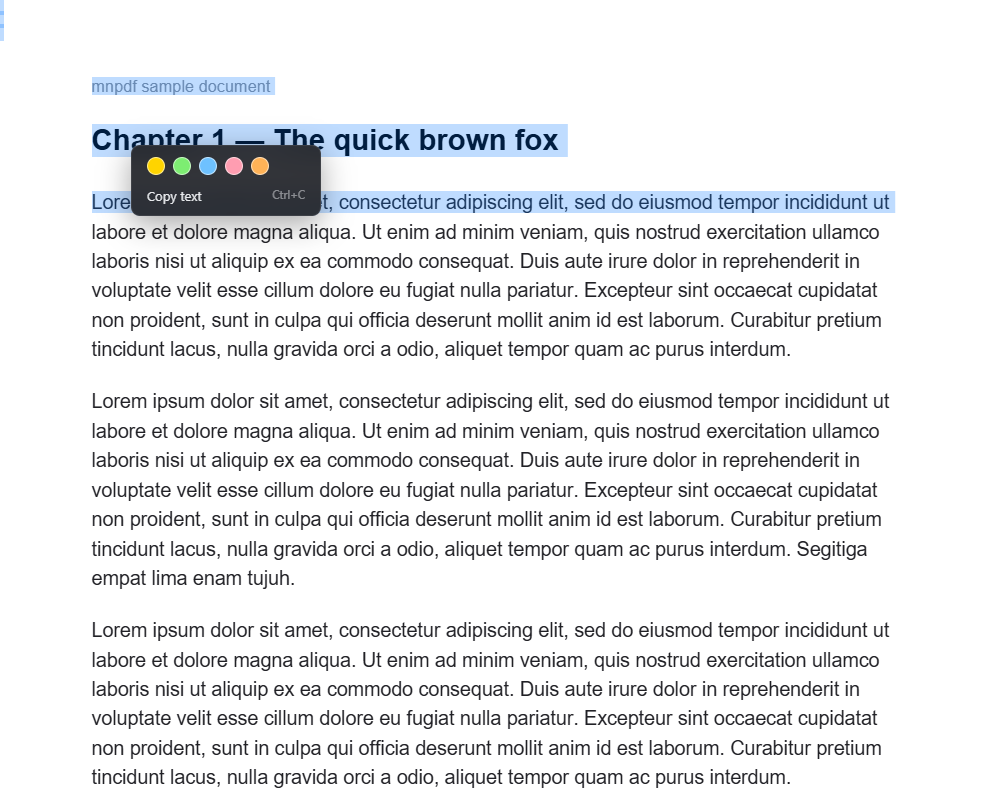
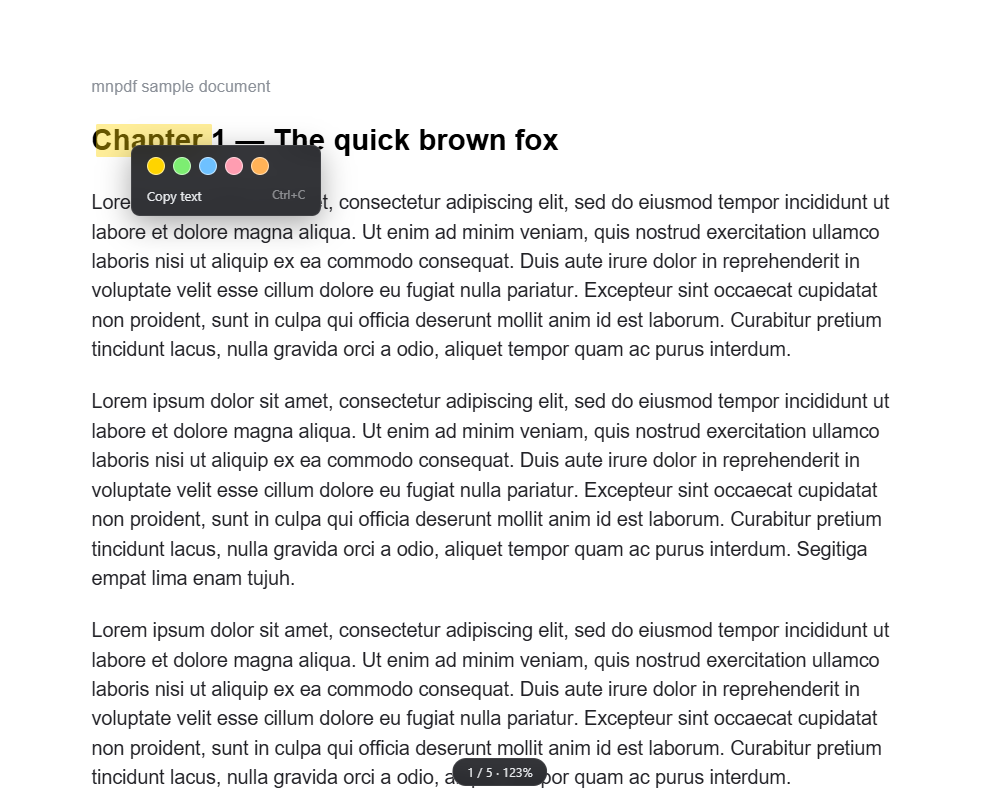
v0.6: glyph-trimmed band highlights (no margin bleed, short last lines respected), blank-space drags highlight crossed lines, native overshoot selection cleared on release with Ctrl+C fallback

diff --git a/src/annos.js b/src/annos.js
@@ -5,7 +5,6 @@
 // into the PDF), so nothing is printed on the page.
 import { S, pushOp, onDocChange, newHighlight, newPin } from './state.js';
 import { viewportFor, positionOverlays, setOverlayRenderer } from './viewer.js';
-import { pointNearRect, bandClipRect } from './selection.js';
 import { el } from './util.js';
 
 export const HL_COLORS = ['#ffd400', '#7ded72', '#6ec1ff', '#ff9db1', '#ffb257'];
@@ -69,22 +68,8 @@ function initDragBandTracking() {
       if (e.button !== 0) return;
       const tlEl = e.target.closest?.('.textLayer');
       if (!tlEl) return;
-      // drag-from-blank: a press that misses every glyph box must not start a
-      // selection at all (preventing mousedown's default blocks selection).
-      let onText = false;
-      for (const span of tlEl.querySelectorAll('span')) {
-        if (pointNearRect(e.clientX, e.clientY, span.getBoundingClientRect())) {
-          onText = true;
-          break;
-        }
-      }
-      if (!onText) {
-        e.preventDefault();
-        window.getSelection()?.removeAllRanges();
-        return;
-      }
-      // drag-to-blank clamp: endOfContent covers the layer while selecting so
-      // the browser keeps the endpoint on real text (see .textLayer.selecting)
+      // blank-space starts are fine: the highlight comes from the pointer band
+      // (glyph-trimmed), and endOfContent keeps the native endpoint on text
       tlEl.classList.add('selecting');
       const wrapEl = tlEl.closest('.pagewrap');
       if (wrapEl) dragBand = { wrapEl, x0: e.clientX, y0: e.clientY, x1: e.clientX, y1: e.clientY };
@@ -106,11 +91,16 @@ function initDragBandTracking() {
     () => {
       releaseSelecting();
       if (dragBand) {
-        const derived = deriveBandSelection(dragBand);
+        const moved =
+          Math.abs(dragBand.x1 - dragBand.x0) + Math.abs(dragBand.y1 - dragBand.y0) >= 6;
+        const derived = moved ? deriveBandSelection(dragBand) : null;
         if (derived) {
           bandSel = derived;
           bandSelAt = Date.now();
           lastSel = derived;
+          // the native selection overshoots on gap drags; our band result
+          // replaces it (Ctrl+C falls back to the captured band text)
+          window.getSelection()?.removeAllRanges();
         }
         dragBand = null;
       }
@@ -124,8 +114,47 @@ function initDragBandTracking() {
   window.addEventListener('blur', releaseSelecting);
 }
 
-// rects covered by the pointer band: every text span the band crosses,
-// horizontally clipped to the band
+// A span's box covers its laid-out text INCLUDING stretched/trailing spaces —
+// highlight boxes must use the trimmed visible glyphs only, or highlights
+// bleed into the page margins ("fringe" highlighting).
+function spanVisibleBox(span) {
+  const text = span.textContent || '';
+  const node = span.firstChild;
+  if (!node || node.nodeType !== Node.TEXT_NODE) {
+    if (!text.trim()) return null;
+    const r = span.getBoundingClientRect();
+    return { left: r.left, right: r.right, top: r.top, bottom: r.bottom,
+             node: null, start: 0, end: text.length, text };
+  }
+  const lead = text.length - text.replace(/^\s+/, '').length;
+  const end = lead + text.trim().length;
+  if (end <= lead) return null;
+  const range = document.createRange();
+  range.setStart(node, lead);
+  range.setEnd(node, end);
+  const rects = [...range.getClientRects()].filter((r) => r.width > 0.5 && r.height > 0.5);
+  if (!rects.length) return null;
+  return {
+    left: Math.min(...rects.map((r) => r.left)),
+    right: Math.max(...rects.map((r) => r.right)),
+    top: Math.min(...rects.map((r) => r.top)),
+    bottom: Math.max(...rects.map((r) => r.bottom)),
+    node, start: lead, end,
+    text: text.slice(lead, end),
+  };
+}
+
+function offsetAtX(vis, x) {
+  if (!vis.node || vis.right <= vis.left) return vis.start;
+  const frac = (x - vis.left) / (vis.right - vis.left);
+  return Math.max(vis.start, Math.min(vis.end, vis.start + Math.round(frac * (vis.end - vis.start))));
+}
+
+// rects covered by the pointer band: the visible glyphs of every text line the
+// band crosses. The band's vertical extent decides WHICH lines; its horizontal
+// extent only trims the first/last line when the pointer cut inside the text —
+// starting or ending in blank space means "the whole line(s)", never the page
+// margins.
 function deriveBandSelection(band) {
   const i = +band.wrapEl.dataset.i;
   if (!S.pageList[i]) return null;
@@ -134,38 +163,80 @@ function deriveBandSelection(band) {
   const wr = band.wrapEl.getBoundingClientRect();
   const bx0 = Math.min(band.x0, band.x1), bx1 = Math.max(band.x0, band.x1);
   const by0 = Math.min(band.y0, band.y1), by1 = Math.max(band.y0, band.y1);
-  const rects = [];
+  const boxes = [];
   for (const span of band.wrapEl.querySelectorAll('.textLayer span')) {
-    const r = span.getBoundingClientRect();
-    const clip = bandClipRect(r, by0, by1, bx0, bx1);
-    if (!clip) continue;
-    const p1 = vp.convertToPdfPoint(clip.sx - wr.left, r.top - wr.top);
-    const p2 = vp.convertToPdfPoint(clip.ex - wr.left, r.bottom - wr.top);
+    const vis = spanVisibleBox(span);
+    if (!vis || vis.bottom - vis.top < 2 || vis.right - vis.left < 1) continue;
+    // a line counts only when the band genuinely crosses it: grazing the edge
+    // of the next line (drag ending in the gap) must not pull it in — unless
+    // the drag itself is a thin same-line sweep
+    const overlap = Math.min(vis.bottom, by1) - Math.max(vis.top, by0);
+    const bandH = by1 - by0;
+    if (bandH <= 8) {
+      // thin (same-line) sweep: the sweep line must sit inside the line box
+      const midY = (by0 + by1) / 2;
+      if (midY < vis.top - 2 || midY > vis.bottom + 2) continue;
+    } else if (overlap < 4 || overlap < (vis.bottom - vis.top) * 0.35) {
+      // the band must genuinely cross the line — grazing the next line's edge
+      // (drag ending in the gap) must not pull it in
+      continue;
+    }
+    boxes.push(vis);
+  }
+  if (!boxes.length) return null;
+  const topMost = Math.min(...boxes.map((b) => b.top));
+  const botMost = Math.max(...boxes.map((b) => b.bottom));
+  const rects = [];
+  const parts = [];
+  for (const vis of boxes) {
+    const isFirst = vis.top <= topMost + 2;
+    const isLast = vis.bottom >= botMost - 2;
+    let sx = vis.left, sOff = vis.start;
+    if (isFirst && bx0 > vis.left + 2) {
+      if (bx0 >= vis.right - 2) continue; // drag started right of this line's text
+      sx = bx0;
+      sOff = offsetAtX(vis, bx0);
+    }
+    let ex = vis.right, eOff = vis.end;
+    if (isLast && bx1 > vis.left + 2 && bx1 < vis.right - 2) {
+      ex = bx1; // drag ended inside this line's text
+      eOff = offsetAtX(vis, bx1);
+    }
+    if (ex - sx < 1) continue;
+    const p1 = vp.convertToPdfPoint(sx - wr.left, vis.top - wr.top);
+    const p2 = vp.convertToPdfPoint(ex - wr.left, vis.bottom - wr.top);
     rects.push([
       Math.min(p1[0], p2[0]), Math.min(p1[1], p2[1]),
       Math.max(p1[0], p2[0]), Math.max(p1[1], p2[1]),
     ]);
+    parts.push(vis.text.slice(sOff - vis.start, eOff - vis.start));
   }
   if (!rects.length) return null;
   return {
     srcIdx: S.pageList[i].src, rects,
-    text: String(window.getSelection() || ''),
+    text: parts.join(' ').replace(/\s+/g, ' ').trim(),
     band: { x0: bx0, y0: by0, x1: bx1, y1: by1 },
   };
 }
 
 // what context menus should treat as "the selection": a recent pointer-band
 // drag wins over the (overshooting) browser selection — but only when the
-// right-click actually happened on the dragged region
-export function preferredSelection(x, y) {
+// right-click happened vertically inside the dragged rows (margin drags are
+// thin vertical bands, so the x position is irrelevant; "these lines" is the
+// selection)
+export function preferredSelection(y) {
   if (
     bandSel && Date.now() - bandSelAt < 2500 &&
-    x >= bandSel.band.x0 - 40 && x <= bandSel.band.x1 + 40 &&
     y >= bandSel.band.y0 - 40 && y <= bandSel.band.y1 + 40
   ) {
     return bandSel;
   }
   return selectionInfo() || lastSel;
+}
+
+// text of the last band drag, for Ctrl+C after the native selection was cleared
+export function recentBandText() {
+  return bandSel && Date.now() - bandSelAt < 5000 ? bandSel.text : null;
 }
 
 // Clean line rects for the selected characters: walk text nodes of the page's

diff --git a/src/main.js b/src/main.js
@@ -105,7 +105,7 @@ function initContextMenu() {
         del: cmd.deletePage,
       }));
     }
-    const sel = annos.preferredSelection(e.clientX, e.clientY);
+    const sel = annos.preferredSelection(e.clientY);
     if (sel) return menuForSelection(e, sel);
     const wrapEl = e.target.closest?.('.pagewrap');
     if (wrapEl && S.pdf) return menuForPage(e, wrapEl);
@@ -125,6 +125,14 @@ function initKeyboard() {
     const c = e.ctrlKey || e.metaKey;
     const k = e.key;
     if (c && k === 'o') { e.preventDefault(); cmd.openCmd(); }
+    else if (c && k.toLowerCase() === 'c') {
+      // band drags clear the (overshooting) native selection on release —
+      // Ctrl+C right after a drag still copies the dragged text
+      if (!String(window.getSelection()).trim()) {
+        const t = annos.recentBandText();
+        if (t) { annos.copyText(t); toast('Copied'); e.preventDefault(); }
+      }
+    }
     else if (c && k.toLowerCase() === 's') { e.preventDefault(); e.shiftKey ? cmd.doSaveAs() : cmd.doSave(); }
     else if (c && k.toLowerCase() === 'z') { e.preventDefault(); e.shiftKey ? cmd.redoCmd() : cmd.undoCmd(); }
     else if (c && k.toLowerCase() === 'y') { e.preventDefault(); cmd.redoCmd(); }
